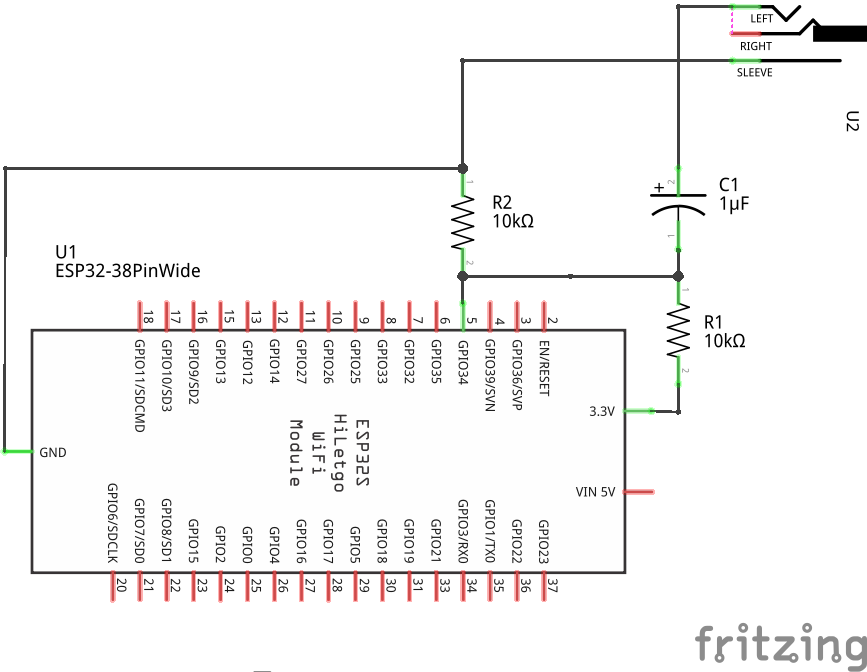
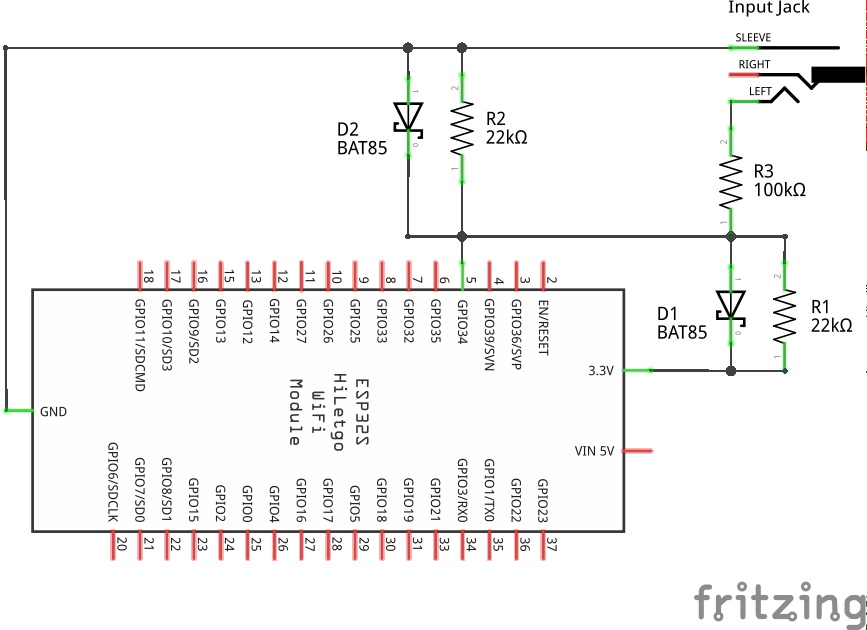
update schematics

diff --git a/README.md b/README.md
@@ -24,15 +24,8 @@ The aim of the Edrumulus project is to create a high quality Open Source e-drum 
 
   A circuit diagram of my test setup is given in the following picture:
   <br/><img src="algorithm/images/edrumulus_testing.png" width="400"><br/>
-  *WARNING* This circuit diagram is only intended for my initial tests. It does not contain any
-  protection for the ESP32 nor it is yet optimized for different pads. It just works ok for my
-  tests with a Roland PD-120. Use it at your own risk. You may destroy your ESP32 board if the
-  input signal is too strong!
+  *WARNING* This circuit diagram is only intended for my initial tests. Use it at your own risk.
 
-  Update 14.03.2021: In my newest circuit diagram I have removed the capacitor and added a
-  100 k Ohm resister. The two 10 k Ohm resisters were exchanged by two 20 (or 22) k Ohm resistors.
-  Parallel to the two 20 k Ohm resistors I have added two diodes to prevent high volatges to
-  destroy the ESP32 (protection) similar to [this schematic](https://www.megadrum.info/sites/default/files/analogue_board_kicad.png).
 
 ## Algorithm development
 
